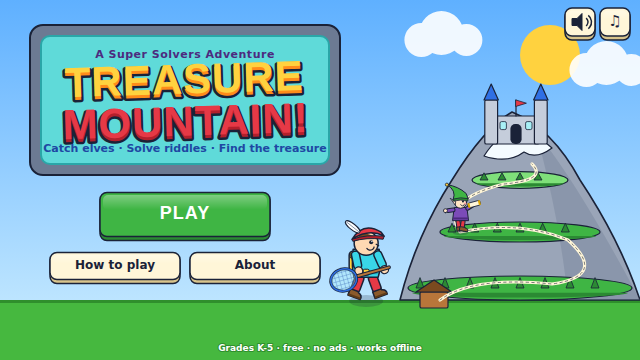
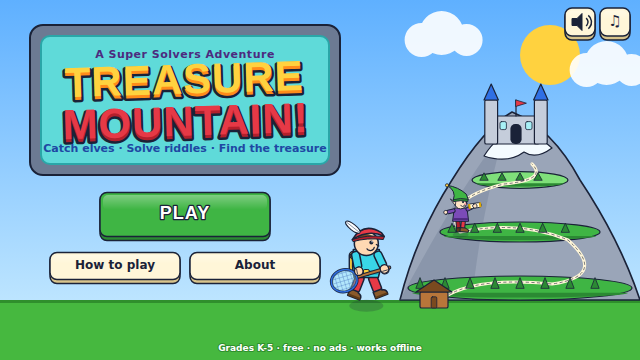
The elf holds its balloon by the string, not by its hat
Claude-Session: https://claude.ai/code/session_01BCbbHY8h3NqDoAU9R2DSKR

diff --git a/src/art/characters.ts b/src/art/characters.ts
@@ -171,7 +171,11 @@ export function drawElf(ctx: Ctx, x: number, y: number, facing: 1 | -1, pose: El
   circle(ctx, 0, 24, 5.5, P.elfSkin, P.ink, 2)
   ctx.restore()
   if (item === 'balloon') {
-    line(ctx, 18, -70, 28, -120, P.ink, 1.5)
+    // The string starts at the hand that is holding it. It used to start at (18,-70), which is the
+    // side of the elf's head, so the balloon was tied to its hat.
+    const a = (-armSwing * 0.8 - 65) * Math.PI / 180
+    const hx = 14 - 24 * Math.sin(a), hh = -52 + 24 * Math.cos(a)
+    line(ctx, hx, hh, 30, -118, P.ink, 1.5)
     ellipse(ctx, 30, -136, 16, 20, P.red, P.ink, 2.5)
     ellipse(ctx, 25, -142, 4, 6, 'rgba(255,255,255,0.6)', 'rgba(0,0,0,0)', 0)
   }
